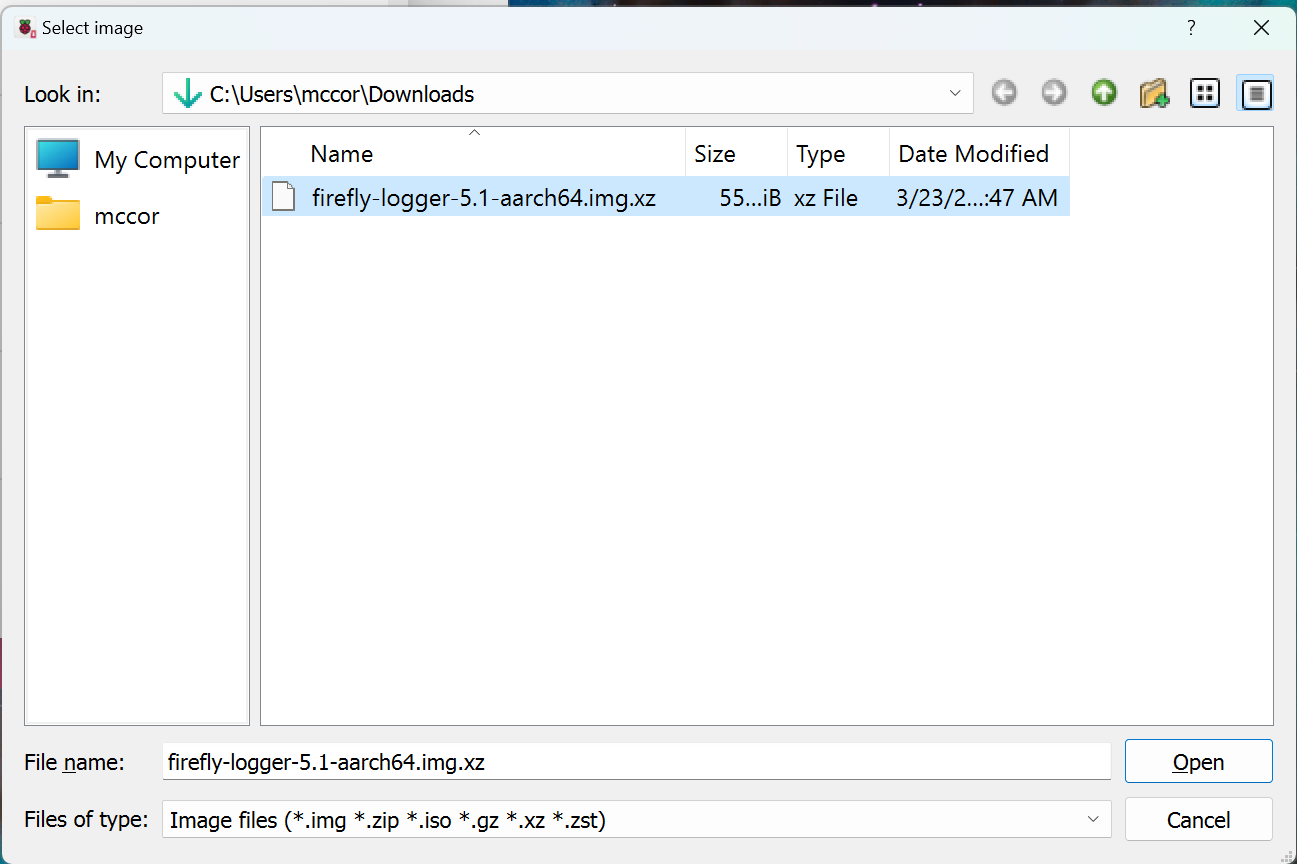
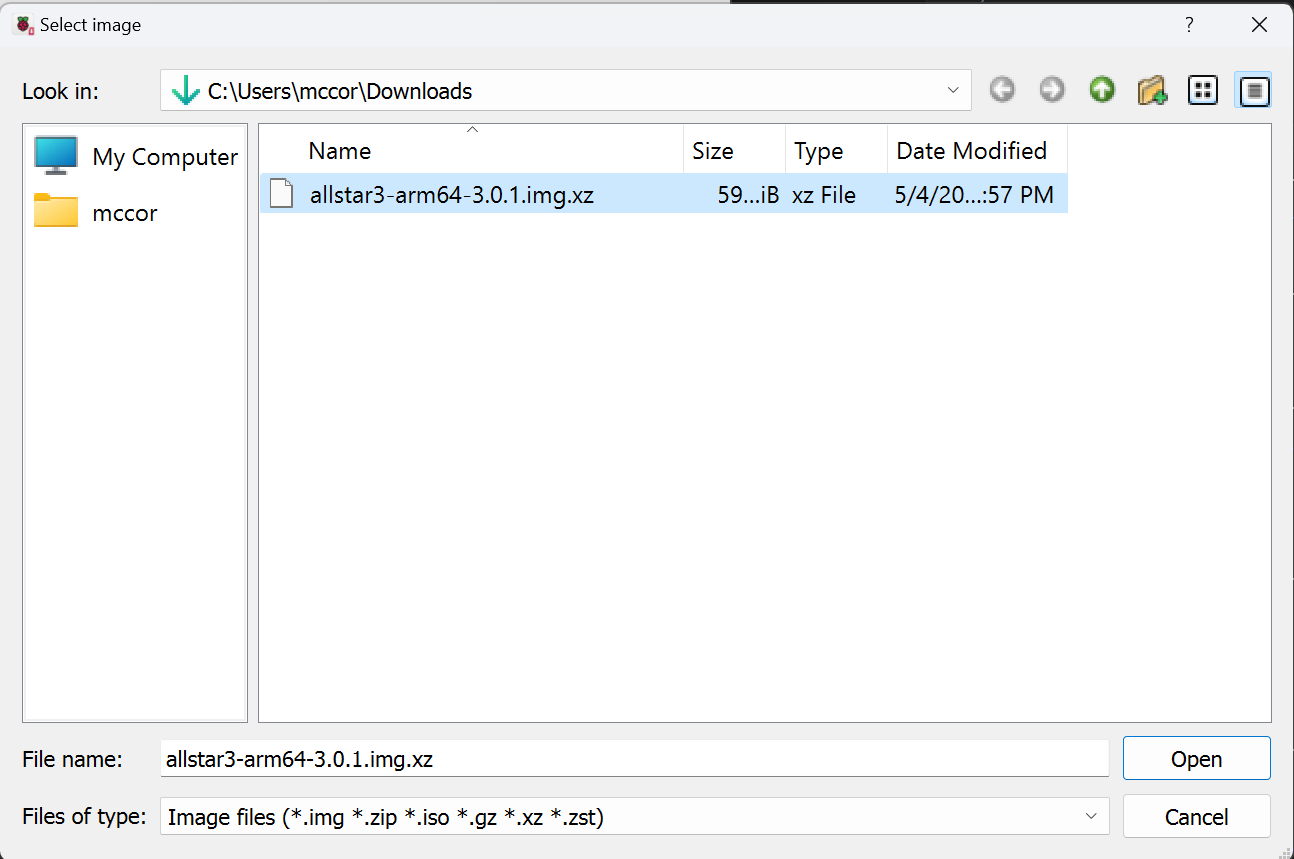
update pi docs with real screenshots

diff --git a/docs/user-guide/pi-detailed.md b/docs/user-guide/pi-detailed.md
@@ -1,11 +1,13 @@
 # Step-by-Step Pi Appliance Setup
+These directions are specific for Windows by example , but in general,
+should work the same for the same tool set on MacOS and Linux.
 
 1. If you do not already have it installed, install the
 [Raspberry Pi Imager](https://www.raspberrypi.com/software/).
 
-2. FIX FIXIMG Download the [latest release image](https://github.com/jxmx/firefly-logger/releases). This will
-be named `firefly-logger-X.Y-aarch64.img.xz` where "X.Y" is the version. Save it to the local
-`Downloads` directory.
+2. Download the [latest release image](https://repo.allstarlink.org/images/pi/). This will
+be named `aslstar3-arm64-X.Y.Z.img.xz` where "X.Y.Z" is the version. The version will
+be something like 3.0.1. Save it to the local `Downloads` directory.
 
 3. Launch **Raspberry Pi Imager** from the start menu.
 ![Step 3](img/step-3.png)
@@ -18,9 +20,9 @@ Pi hardware on which Firefly Logger is being installed.
 list that appears and select **Use custom**. 
 ![Step 5](img/step-5.png)
 
-6. FIX FIXIMG A **Select image** dialog box will appear. Navigate to the
+6. A **Select image** dialog box will appear. Navigate to the
 `Downloads` folder and select the image downloaded in step 2.
-It will be named something like firefly-logger-5.1-aarch64.img.xz.
+It will be named something like allstar3-arm64-3.0.1.img.xz.
 Then click **Open**.
 ![Step 6](img/step-6.png)
 
@@ -36,33 +38,74 @@ Device - 16.0 GB". Click on that entry.
 **EDIT SETTINGS**
 ![Step 9](img/step-9.png)
 
-10. FIX FIXIMG Check the box next to **Configure wireless LAN** and then enter
+10. Check the box next to **Set hostname** and enter a hostname
+for the device to appear as on the network. It is recommended
+to choose a functional name such as "asl3-node50185" (using your
+node number) or "CALLSIGN-hotspot" (e.g. "w1aw-hotspot").
+
+11. Check the box next to **Set username and password**
+and enter a username and password. It is recommended to set the
+username to 'asl' if you have no strong feeling about the
+username. Choose a good password and record the password somewhere
+safe. **NOTE: There is NO DEFAULT USER for the image. Failure to
+set an account will require a reimage of the SD card with the
+proper settings.**
+
+12. If the device will be connected to WiFi, check the
+box "Configure wireless LAN" and then enter
 the name of the wireless network in **SSID** and the password for
 that network in **Password**. Change the "Wireless LAN country" to **US**
-or other country as appropriate. This is not necessary if the Pi will
-use a network cable rather than wireless.
-![Step 10](img/step-10.png)
+or another country as appropriate. Setting this is not necessary 
+if the Pi will use a network cable rather than wireless.
 
-11. (Optional) Check the box next to **Set locale settings** and change the "Time zone"
-to the desired region.
+13. Check the box next to **Set locale settings** and change the "Time zone"
+to the desired region. The timezone settings will control any time-based
+announcements and schedule jobs. After completing steps 10-13, the customization
+should look something like:
+![Step 13](img/step-13.png)
 
-12. Click **SAVE** in "OS Customsation".
+14. Click **SAVE** in "OS Customsation".
 
-13. Click **YES** for "Use OS customisation?"
+15. Click **YES** for "Use OS customisation?"
 
-14. FIXIMG Click **YES** to continue to write the image to the SD card.
-![Step 14](img/step-14.png)
+16. Click **YES** to continue to write the image to the SD card.
+![Step 16](img/step-16.png)
 
-15. Depending on the speed of the computer and the type of SD card
+17. Depending on the speed of the computer and the type of SD card
 one will have time for a beverage of their choice. When the write is complete,
 remove the card from computer and insert it into the Pi. If using a USB adapter
 for the SD card, remove the SD card from the adapter and insert the card into
-the Pi. The Pi __will not__ us the SD card in the USB adapter.
+the Pi. The Pi __will not__ use the SD card in the USB adapter.
 
-16. Power on the Pi. Wait approximately 2 minutes for the Pi to boot
+18. Power on the Pi. Wait approximately 2 minutes for the Pi to boot
 and perform the various firstboot tasks.
 
-17. FIX FIXIMG (Optional) Network connectivity may be tested using the command
-`ping -4 firefly.local` from a command prompt or PowerShell window.
-![Step 17](img/step-17.png)
+19. (Optional) Network connectivity may be tested using the command
+to ping the hostname set in step 10. For example, if the hostname
+set was "node12345" then do `ping -4 node12345.local` from a
+command prompt or PowerShell window. When you get a response,
+the host is connected to the network. In this example, the node
+hostname was set to `n8ei-testasl3.local`:
+![Step 19](img/step-19.png)
+
+20. If not already installed, install an SSH client such as
+[PuTTY](https://www.chiark.greenend.org.uk/~sgtatham/putty/latest.html).
+
+21. Open PuTTY or an SSH client of choice and connect to the node
+with the hostname chosen in step 10 (e.g. node12345.local) and
+then click on **Open**.
+![Step 21](img/step-21.png)
+
+22. Depending on your client and configuration, you may be presented
+with a "Security Alert" or "Security Warning". This is just telling
+you that a new host has appeared and may be different from one using
+that IP address previously. It is OK to accept the warning.
+![Step 22](img/step-22.png)
+
+23. Enter the username and password set in step 11. You should
+be logged in and presented with the default screen:
+![Step 23](img/step-23.png)
+
+The node may now be configured. New users or those wanting a
+quickstart experience should [use the asl-menu utility](menu.md).
 
